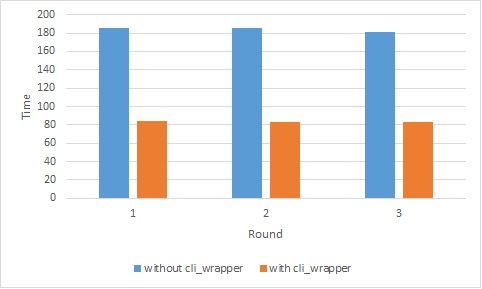
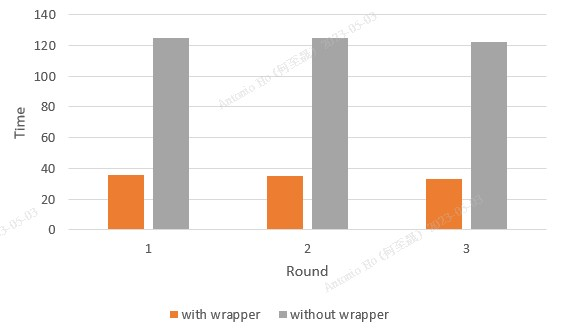
[Inspur][HLD] Modify cli_wrapper hld         Description:             Update test result

Changed region(s): [[0.0, 0.0934, 0.9647, 0.8408], [0.0, 0.0, 1.0, 0.9965], [0.0622, 0.0934, 0.1245, 0.1869]]

diff --git a/doc/cli_wrapper/shd-cli_wrapper_hld.md b/doc/cli_wrapper/shd-cli_wrapper_hld.md
@@ -37,10 +37,11 @@
 
 | Rev  |    Date    |                Author                 | Change Description |
 | :--: | :--------: | :-----------------------------------: | ------------------ |
-| 0.1  | 08/12/2022 |  Justin Lu                            | Initial version    |
+| 0.1  | 08/12/2022 |  Justin Lu                            | 1. Initial version    |
 | 0.2  | 09/03/2022 |  Justin Lu                            | 1. Add watchdog design <br> 2. Modify architecture picture |
-| 0.3  | 09/22/2022 |  Antonio Ho                           | Add enable/disable design |
-| 0.4  | 01/16/2023 |  Antonio Ho                           | Add performance improvements |
+| 0.3  | 09/22/2022 |  Antonio Ho                           | 1. Add enable/disable design |
+| 0.4  | 01/16/2023 |  Antonio Ho                           | 1. Add performance improvements |
+| 0.5  | 05/03/2023 |  Antonio Ho                           | 1. Modify performance improvements <br> 2. Add TODO list |
 
 # 1. High Level Design Document
 
@@ -164,63 +165,15 @@ Here lists the related source tree of CLI_wrapper
 
 # 2. Performance improvements
 
-* The following test results are made in gns3 environment:
+* The following test results are made in arm platform(dual-core A53 processor):
 
-  * Case 1: Executing the Python code which import a large module 100 times.
-
-     - The following is a example of executing "show ntp" command without cli_wrapper.
-
-        ```
-              #
-              # 'ntp' command ("show ntp")
-              #
-              @cli.command()
-              @click.pass_context
-              @click.option('--verbose', is_flag=True, help="Enable verbose output")
-              def ntp(ctx, verbose):
-                  """Show NTP information"""
-           -->    from pkg_resources import parse_version
-                  ntpstat_cmd = "ntpstat"
-                  ntpcmd = "ntpq -p -n"
-              ...
-        ```
-
-     - The following results are compared with and without cli_wrapper.
-
-        ![Encode format](images/test_result_gns3_1.jpg)
-
-  * Case 2: Executing the Python code which doesn't import a large module 100 times.
-
-     - The following is a example of executing "show ntp" command without cli_wrapper.
-
-        ```
-              #
-              # 'ntp' command ("show ntp")
-              #
-              @cli.command()
-              @click.pass_context
-              @click.option('--verbose', is_flag=True, help="Enable verbose output")
-              def ntp(ctx, verbose):
-                  """Show NTP information"""
-           -->    # from pkg_resources import parse_version
-                  ntpstat_cmd = "ntpstat"
-                  ntpcmd = "ntpq -p -n"
-              ...
-        ```
-
-     - The following results are compared with and without cli_wrapper.
-
-        ![Encode format](images/test_result_gns3_2.jpg)
-
-* The following test results are made in arm platform:
-
-  * Case 3: Executing the Python code which import a large module 20 times.
+  * Executing "show vlan brief" command 20 times
 
      - The following results are compared with and without cli_wrapper.
 
         ![Encode format](images/test_result_arm_1.jpg)
 
-  * Case 4: Executing the Python code which doesn't import a large module 20 times.
+  * The following is an analysis of the execution time of the "show vlan brief" command
 
      - The following results are compared with and without cli_wrapper.
 
@@ -228,15 +181,31 @@ Here lists the related source tree of CLI_wrapper
 
 * Conclusion
 
-  * Cli_wrapper can improve the command execution time when Python code import large modules.
+  * Cli_wrapper can improve command execution time when Python code imports more global packages.
 
-  * In the worst case, cli_wrapper can still have the same performance as without the wrapper.
-
-  * But, in the case of less powerful CPU, cli_wrapper can reduce more execution time.
+  * For less powerful CPUs, cli_wrapper can significantly reduce execution time.
 
 # 3. Open questions
 
-N/A
+  * TODO:
+
+    * Dynamically generating wrapped files
+
+        - Why I did
+
+          - Section 1.3.5 mentions that during the compilation stage, cli_wrapper builder generates wrapped files, backs up the original files, and then packages all files into Debian.
+
+          - However, this static method of generating wrapped files has the following drawbacks:
+
+              * It is inconvenient for developers as they need to consider whether the cli_wrapper function is enabled and which files have been modified.
+
+              * Moreover, while the cli_wrapper service is starting or stopping, there is a possibility of overwriting the contents that developers have modified.
+
+        - How I did
+
+          - When the cli_wrapper service is starting, the cli_wrapper builder will generate wrapped files.
+
+          - Conversely, when the cli_wrapper service is stopping, all wrapped files will be deleted and then the main.py file will be restored.
 
 # 4. Reference
 
